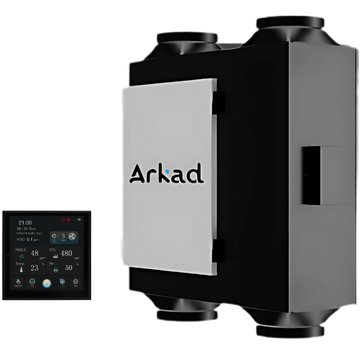
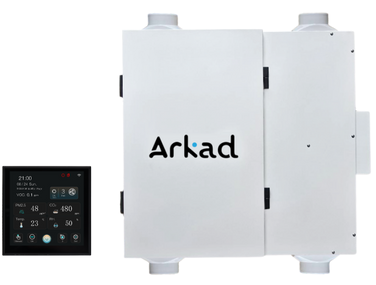
3213123ewqeewqe

diff --git a/i18n/translations/en.js b/i18n/translations/en.js
@@ -285,7 +285,7 @@ export default {
     "AQI_Name": "AQI",
     "AQI_Desc": "Overall Air Quality Index",
     "PM2_5_Name": "PM2.5",
-    "PM2_5_Desc": "Fine particulate matter with a diameter of 2.5 micrometers or less (25-30 times smaller than a human hair)",
+    "PM2_5_Desc": "Small dust particles with a diameter of no more than 2.5 micrometers. (25-30 times smaller than a human hair)",
     "PM10_Name": "PM10",
     "PM10_Desc": "Particulate matter with a diameter of 10 micrometers or less",
     "HCHO_Name": "HCHO",
@@ -403,7 +403,7 @@ export default {
     checking_login: "Checking login status...",
     optimizing_for_ipad: "Optimizing for iPad...",
     starting_app: "Starting app...",
-    update_failed:"Update Failed"
+    update_failed: "Update Failed"
   },
   myhome: {
     "primary_device_settings": "Primary Device Settings",
@@ -470,8 +470,8 @@ export default {
     balcony: "Balcony",
     recommend: "Recommend",
     Name_a_room: "Name a room or location for the device",
-    account_link:"This device is already linked to your account.",
-    account_link5:"This device is already linked to 5 other accounts and cannot be linked further.",
+    account_link: "This device is already linked to your account.",
+    account_link5: "This device is already linked to 5 other accounts and cannot be linked further.",
     easier_to_remember: "to make it easier to remember",
     Specify_room: "Specify room or location name",
     Name_the_room: "Name the room or location",
@@ -594,7 +594,7 @@ export default {
     "Accuracy": "Accuracy",
     "Resolution": "Resolution",
     "DescriptionLong": "Positive pressure air purifier for indoor air quality improvement.",
-    "Price":"Price"
+    "Price": "Price"
 
   },
   "ProductERV": {
@@ -636,7 +636,7 @@ export default {
     "touch_panel_fan_speed": "Adjust air purification fan speed",
     "touch_panel_data_storage": "Stores dust and weather data",
     "warranty_title": "Warranty",
-    "warranty_body": "Main Unit 1 Year",
+    "warranty_body": "Monitor 1 Year",
     "warranty_motor": "Motor 3 Years",
     "warranty_control_panel": "Control Panel 1 Year",
     "order_inquire_line": "Order / Inquire @Line",
@@ -648,29 +648,34 @@ export default {
   },
   Product: {
     measuring: "Air quality measuring device",
-    Positive_pressure: "Positive pressure room principle clean air pump, which draws air from outside the building or outside the room through a high-efficiency air filter system before filling the room with air.",
+    Positive_pressure: "Clean‐air ventilation system with integrated positive‐pressure room capability operates by drawing outside air through a high‐efficiency filtration system before supplying the purified air into the room",
     Purifier_Ventilation: "Positive Air Purifier Ventilation",
-    air_circulation: "Positive pressure aerator,Air circulation system,Energy Recover Ventilation",
+    air_circulation: "Energy Recover Ventilation",
     Aerator: "Aerator",
     Aerator_model: "Aerator Model",
+    available_colors_title: "Available Colors",
+    color_white: "White",
+    color_white_description: "Clean and modern, fits seamlessly into any decor.",
+    color_black: "Black",
+    color_black_description: "Sleek and sophisticated, perfect for a contemporary look.",
     note_vat: "Price includes 7% VAT * and does not include installation costs.",
     note_vat2: "Price includes 7% VAT",
     system_filter: "Filter System",
     HEPA_H13: "HEPA H13",
     Activated_Carbon: "Activated Carbon",
-    Tabletop: "Tabletop air quality monitor",
+    Tabletop: "Device to track air quality in real time equipped with detailed air quality sensors that can display weather information in an app.",
     Filters_dust: "Filters dust particles as small as 99.95%.",
-    Portable_meter: "Portable air quality meter, compact size, easy to carry, full functions, good air, safe for every trip, can display air quality information on APP.",
-    device_track: "A device that can track air quality in real time with a detailed air quality sensor ,It can display air quality information on the APP.",
+    Portable_meter: "Portable air quality meter, compact and easy to carry Complete functions, track air quality on every trip Can display weather information on APP",
+    device_track: "AQI PM2.5 PM10 HCHO Temp CO2 TVOC HUM",
     UVc_Lamp: "UVC Lamp",
     price: "Price",
     category: "Category",
-    pressure_room: "Positive pressure room principle clean air supply with air circulation system helps maintain the temperature inside the room with an air mixing system that adjusts the air temperature drawn from outside before adding air into the room.",
+    pressure_room: "Clean air ventilation Positive pressure room principle With air circulation system Helps maintain the temperature inside the room With air mixing system that adjusts the air temperature that is pulled From outside before adding air into the room",
     product: "Product",
-    Positive_pressure_air_supply_system: "Single-way aerator",
-    ERV_heat_recovery: "Circulating aerator",
-    Desktop_sensor: "Desktop Sensor",
-    Portable_sensor: "Portable sensor",
+    Positive_pressure_air_supply_system: "Positive Air Purifier Ventilation",
+    ERV_heat_recovery: "Energy Rocovey Ventilation",
+    Desktop_sensor: "Portable Sensor",
+    Portable_sensor: "Pocket sensor",
     Additional_information: "Order/Information",
     Air_quality_sensor: "Air quality sensor",
     Warranty: "Warranty",
@@ -720,7 +725,7 @@ export default {
     "touch_panel_fan_speed": "Adjust air purification fan speed",
     "touch_panel_data_storage": "Stores dust and weather data",
     "warranty_title": "Warranty",
-    "warranty_body": "Main Unit 1 Year",
+    "warranty_body": "Monitor 1 Year",
     "warranty_motor": "Motor 3 Years",
     "warranty_control_panel": "Control Panel 1 Year",
     "order_inquire_line": "Order / Inquire @Line",

diff --git a/app/(tabs)/product/detail.tsx b/app/(tabs)/product/detail.tsx
@@ -75,6 +75,14 @@ interface WarrantyIcon {
     labelKey: string; // Changed to key for translation
 }
 
+// New interface for Color Options
+interface ColorOption {
+    id: string;
+    image: ImageSourcePropType;
+    colorNameKey: string; // Key for color name translation
+    descriptionKey: string; // Key for color description translation
+}
+
 const { width } = Dimensions.get('window');
 
 const ProductDetailPage: React.FC = () => {
@@ -157,6 +165,22 @@ const ProductDetailPage: React.FC = () => {
         { id: 'warranty3', icon: require('@/assets/images/icons/icon5.png'), labelKey: 'Product.warranty_control_panel' },
     ];
 
+    // New Data for Color Options
+    const colorOptions: ColorOption[] = [
+        {
+            id: 'white',
+            image: require('@/assets/images/product/PPV_white.png'), // Assuming you have this image
+            colorNameKey: 'Product.color_white',
+            descriptionKey: 'Product.color_white_description',
+        },
+        {
+            id: 'black',
+            image: require('@/assets/images/product/PPV_black.png'), // Assuming you have this image
+            colorNameKey: 'Product.color_black',
+            descriptionKey: 'Product.color_black_description',
+        },
+    ];
+
     const handleContactPress = (link: string) => {
         if (link) {
             Linking.openURL(link).catch(err => console.error('An error occurred', err));
@@ -170,14 +194,14 @@ const ProductDetailPage: React.FC = () => {
             <ScrollView showsVerticalScrollIndicator={false}>
 
                 <View style={styles.productHeader}>
-                    <View style={[{alignItems:'center'}]}>
-                    <Image source={require('@/assets/images/product/PPV.png')} style={styles.mainProductImage} resizeMode="contain" />
-                   </View>
+                    <View style={[{ alignItems: 'center' }]}>
+                        <Image source={require('@/assets/images/product/PPV.png')} style={styles.mainProductImage} resizeMode="contain" />
+                    </View>
                     <Text style={styles.productName}>{product.title}</Text>
                     {product.tagline ? <Text style={styles.productTagline}>{product.tagline}</Text> : null}
                     {descriptionParts.map((part, index) => (
                         <Text key={index} style={styles.productDescription}>• {t(part.trim())}</Text>
-                        
+
                     ))}
                 </View>
 
@@ -309,6 +333,20 @@ const ProductDetailPage: React.FC = () => {
                     </View>
                 </View>
 
+                {/* New Color Options Section */}
+                <View style={styles.sectionContainer}>
+                    <Text style={styles.sectionTitle}>{t('Product.available_colors_title')}</Text>
+                    {colorOptions.map((color) => (
+                        <View key={color.id} style={styles.colorOptionItem}>
+                            <Image source={color.image} style={styles.colorOptionImage} resizeMode="contain" />
+                            <View style={styles.colorOptionTextContent}>
+                                <Text style={styles.colorOptionName}>{t(color.colorNameKey)}</Text>
+                                <Text style={styles.colorOptionDescription}>{t(color.descriptionKey)}</Text>
+                            </View>
+                        </View>
+                    ))}
+                </View>
+
                 {/* Warranty Section */}
                 <View style={styles.sectionContainer}>
                     <Text style={styles.sectionTitle}> {t('Product.warranty_title')}</Text>
@@ -339,9 +377,10 @@ const styles = StyleSheet.create({
     container: {
         flex: 1,
         backgroundColor: '#F7F7F7',
+        marginTop: 30,
     },
     productHeader: {
-       // alignItems: 'center',
+        // alignItems: 'center',
         padding: 20,
         backgroundColor: '#FFFFFF',
         marginBottom: 20,
@@ -377,8 +416,8 @@ const styles = StyleSheet.create({
         fontSize: 14,
         color: '#666666',
         //textAlign: 'center',
-        alignContent:'flex-start',
-        alignItems:'flex-start',
+        alignContent: 'flex-start',
+        alignItems: 'flex-start',
         lineHeight: 22,
     },
     sectionContainer: {
@@ -537,6 +576,41 @@ const styles = StyleSheet.create({
         color: '#333333', // Explicitly set color for consistency
         marginBottom: 8,
         marginLeft: 10,
+    },
+
+    // New Color Options Styles
+    colorOptionItem: {
+        flexDirection: 'column', // Changed to column for image above text
+        alignItems: 'center',
+        marginBottom: 20,
+        padding: 15,
+        backgroundColor: '#fff',
+        borderRadius: 10,
+        shadowColor: '#000',
+        shadowOffset: { width: 0, height: 1 },
+        shadowOpacity: 0.05,
+        shadowRadius: 3,
+        elevation: 1,
+    },
+    colorOptionImage: {
+        width: '80%', // Make image wider
+        height: 150, // Adjust height as needed
+        marginBottom: 10, // Add space between image and text
+    },
+    colorOptionTextContent: {
+        alignItems: 'center', // Center text content
+    },
+    colorOptionName: {
+        fontSize: 18,
+        fontWeight: 'bold',
+        color: '#333333',
+        marginBottom: 5,
+    },
+    colorOptionDescription: {
+        fontSize: 14,
+        color: '#666666',
+        textAlign: 'center', // Center description
+        paddingHorizontal: 10,
     },
 
     // Warranty Section Styles

diff --git a/i18n/translations/th.js b/i18n/translations/th.js
@@ -651,6 +651,11 @@ export default {
   },
   Product: {
     measuring: "เครื่องตรวจวัดคุณภาพอากาศ",
+ "available_colors_title": "สีที่มีจำหน่าย",
+    "color_white": "สีขาว",
+    "color_white_description": "สะอาดและทันสมัย เข้ากับการตกแต่งทุกรูปแบบได้อย่างลงตัว",
+    "color_black": "สีดำ",
+    "color_black_description": "ดูเรียบหรูและมีสไตล์ เหมาะสำหรับลุคที่ร่วมสมัย",
     air_circulation: "เครื่องเติมอากาศแรงดันบวก ระบบหมุนเวียนอากาศ Energy Recover Ventilation",
     Positive_pressure: "เครื่องเติมอากาศสะอาดหลักการห้องแรงดันบวก โดยจะทำการดึงอากาศจากภายนอกอาคาร หรือนอกห้อง ผ่านระบบกรองอากาศประสิทธิภาพสูง ก่อนที่จะเติมอากาศเข้าห้อง",
     Purifier_Ventilation: "เครื่องเติมอากาศแรงดันบวก Positive Air Purifier Ventilation",

diff --git a/app/device-scan/HomeWifi.tsx b/app/device-scan/HomeWifi.tsx
@@ -344,8 +344,7 @@ const styles = StyleSheet.create({
     width: 70,
     height: 70,
     marginBottom: 10,
-    borderRadius: 12,
-    backgroundColor: '#f5f5f5'
+    borderRadius: 12
   },
   productName: {
     fontSize: 16,

diff --git a/app/(tabs)/product/detail2.tsx b/app/(tabs)/product/detail2.tsx
@@ -312,6 +312,7 @@ const styles = StyleSheet.create({
     container: {
         flex: 1,
         backgroundColor: '#F7F7F7',
+         marginTop: 30,
     },
     productHeader: {
         padding: 20,
